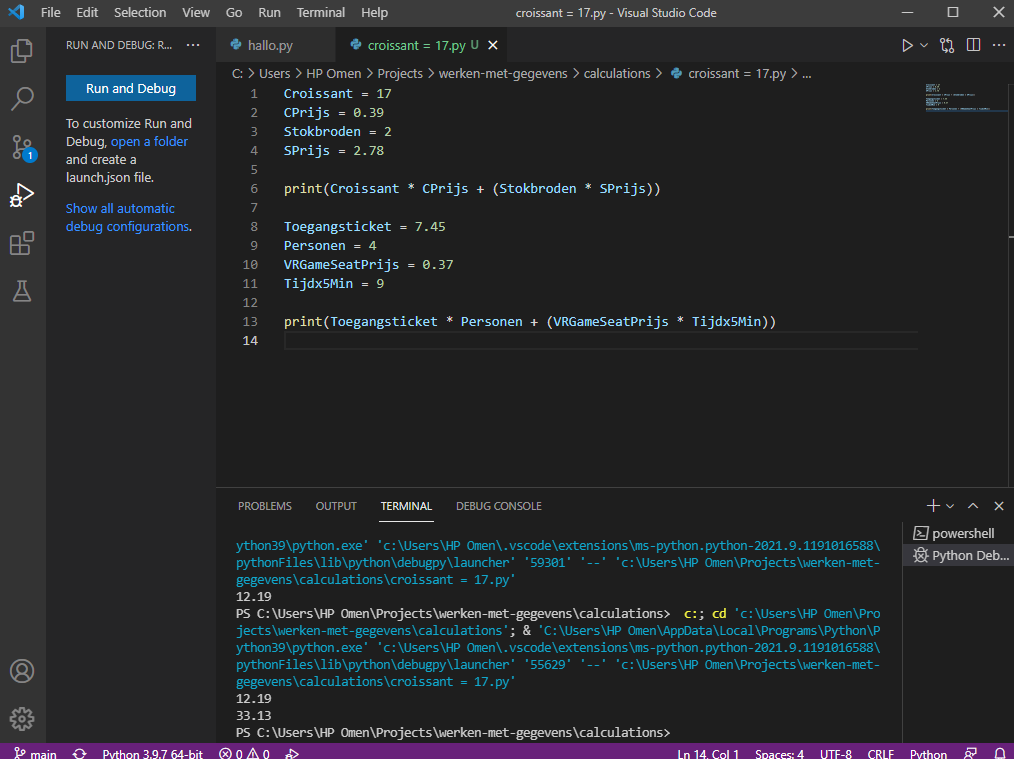
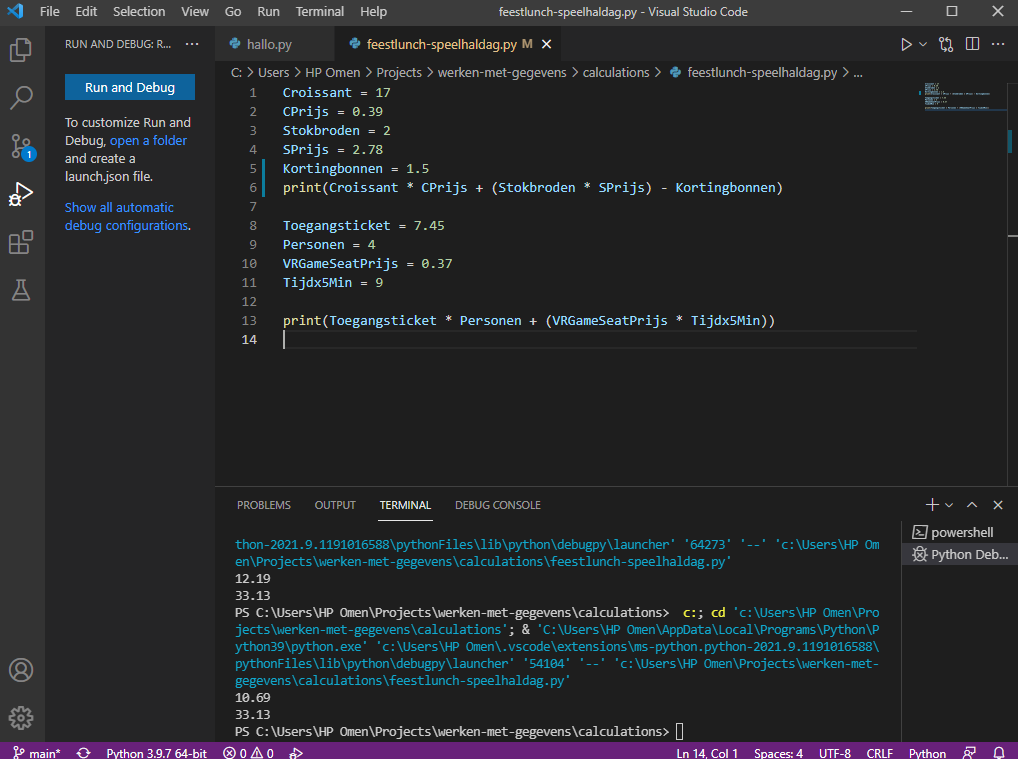
Edited png

diff --git a/calculations/feestlunch-speelhaldag.py b/calculations/feestlunch-speelhaldag.py
@@ -2,8 +2,8 @@ Croissant = 17
 CPrijs = 0.39
 Stokbroden = 2
 SPrijs = 2.78
-
-print(Croissant * CPrijs + (Stokbroden * SPrijs))
+Kortingbonnen = 1.5
+print(Croissant * CPrijs + (Stokbroden * SPrijs) - Kortingbonnen)
 
 Toegangsticket = 7.45
 Personen = 4
